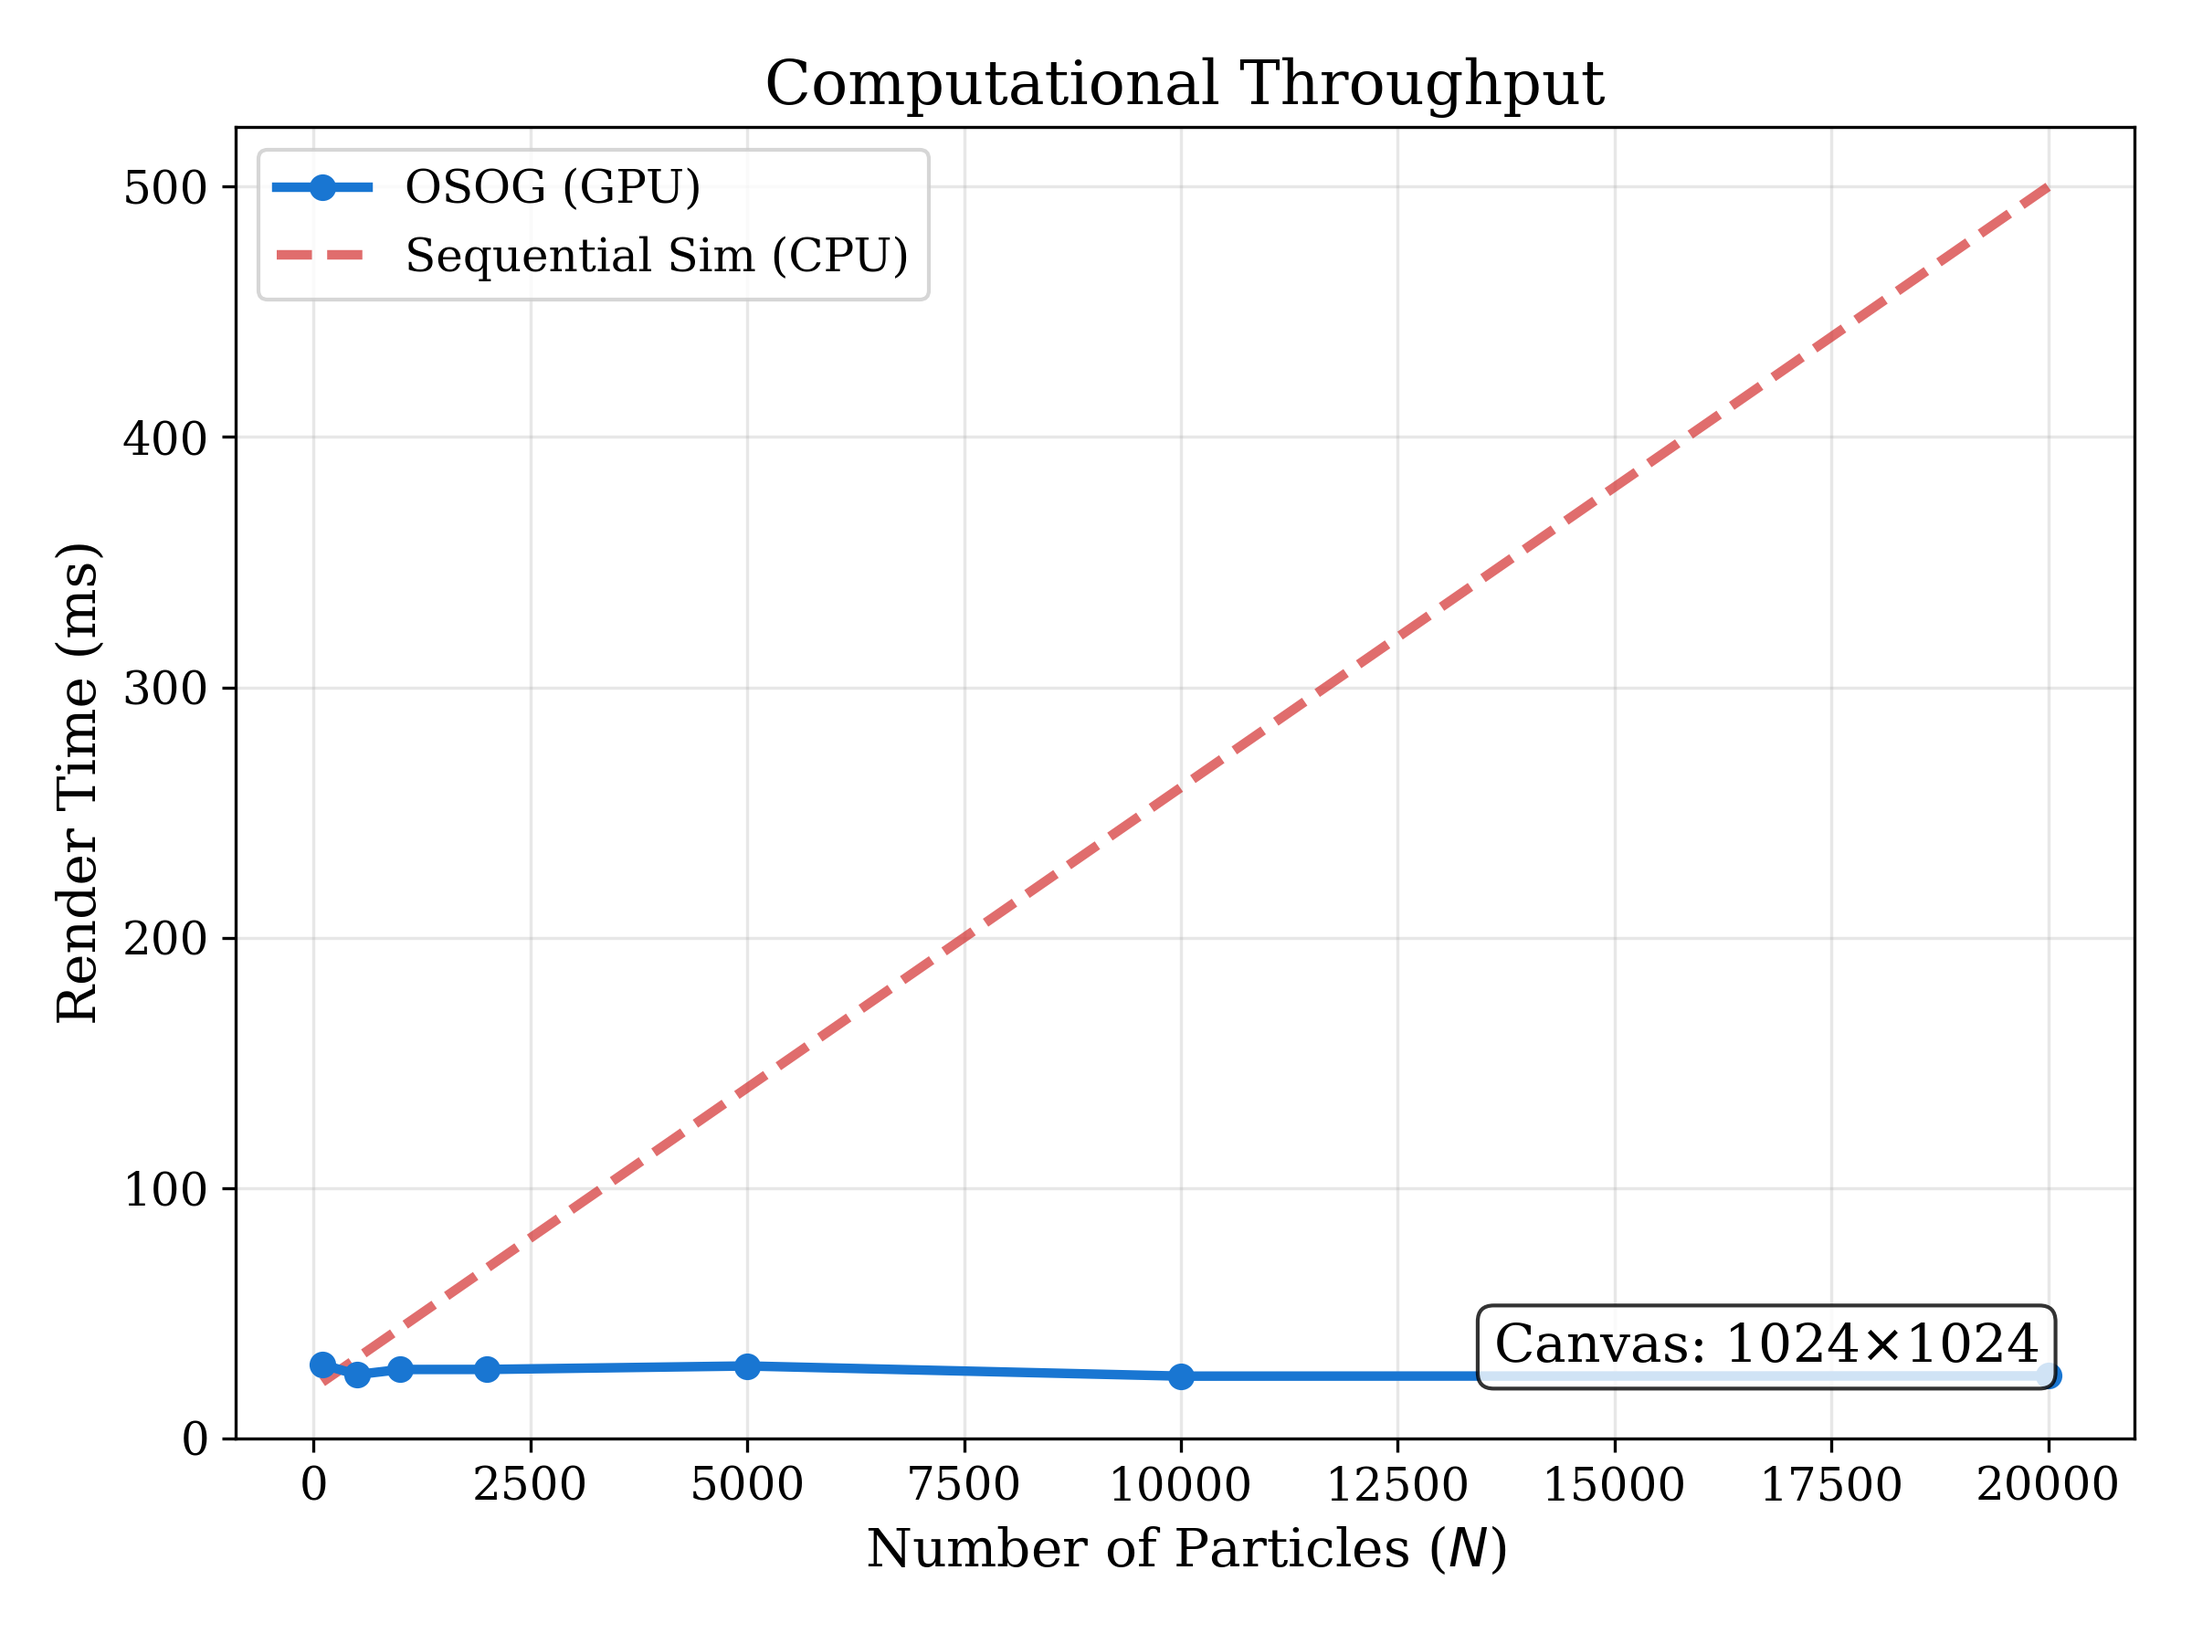
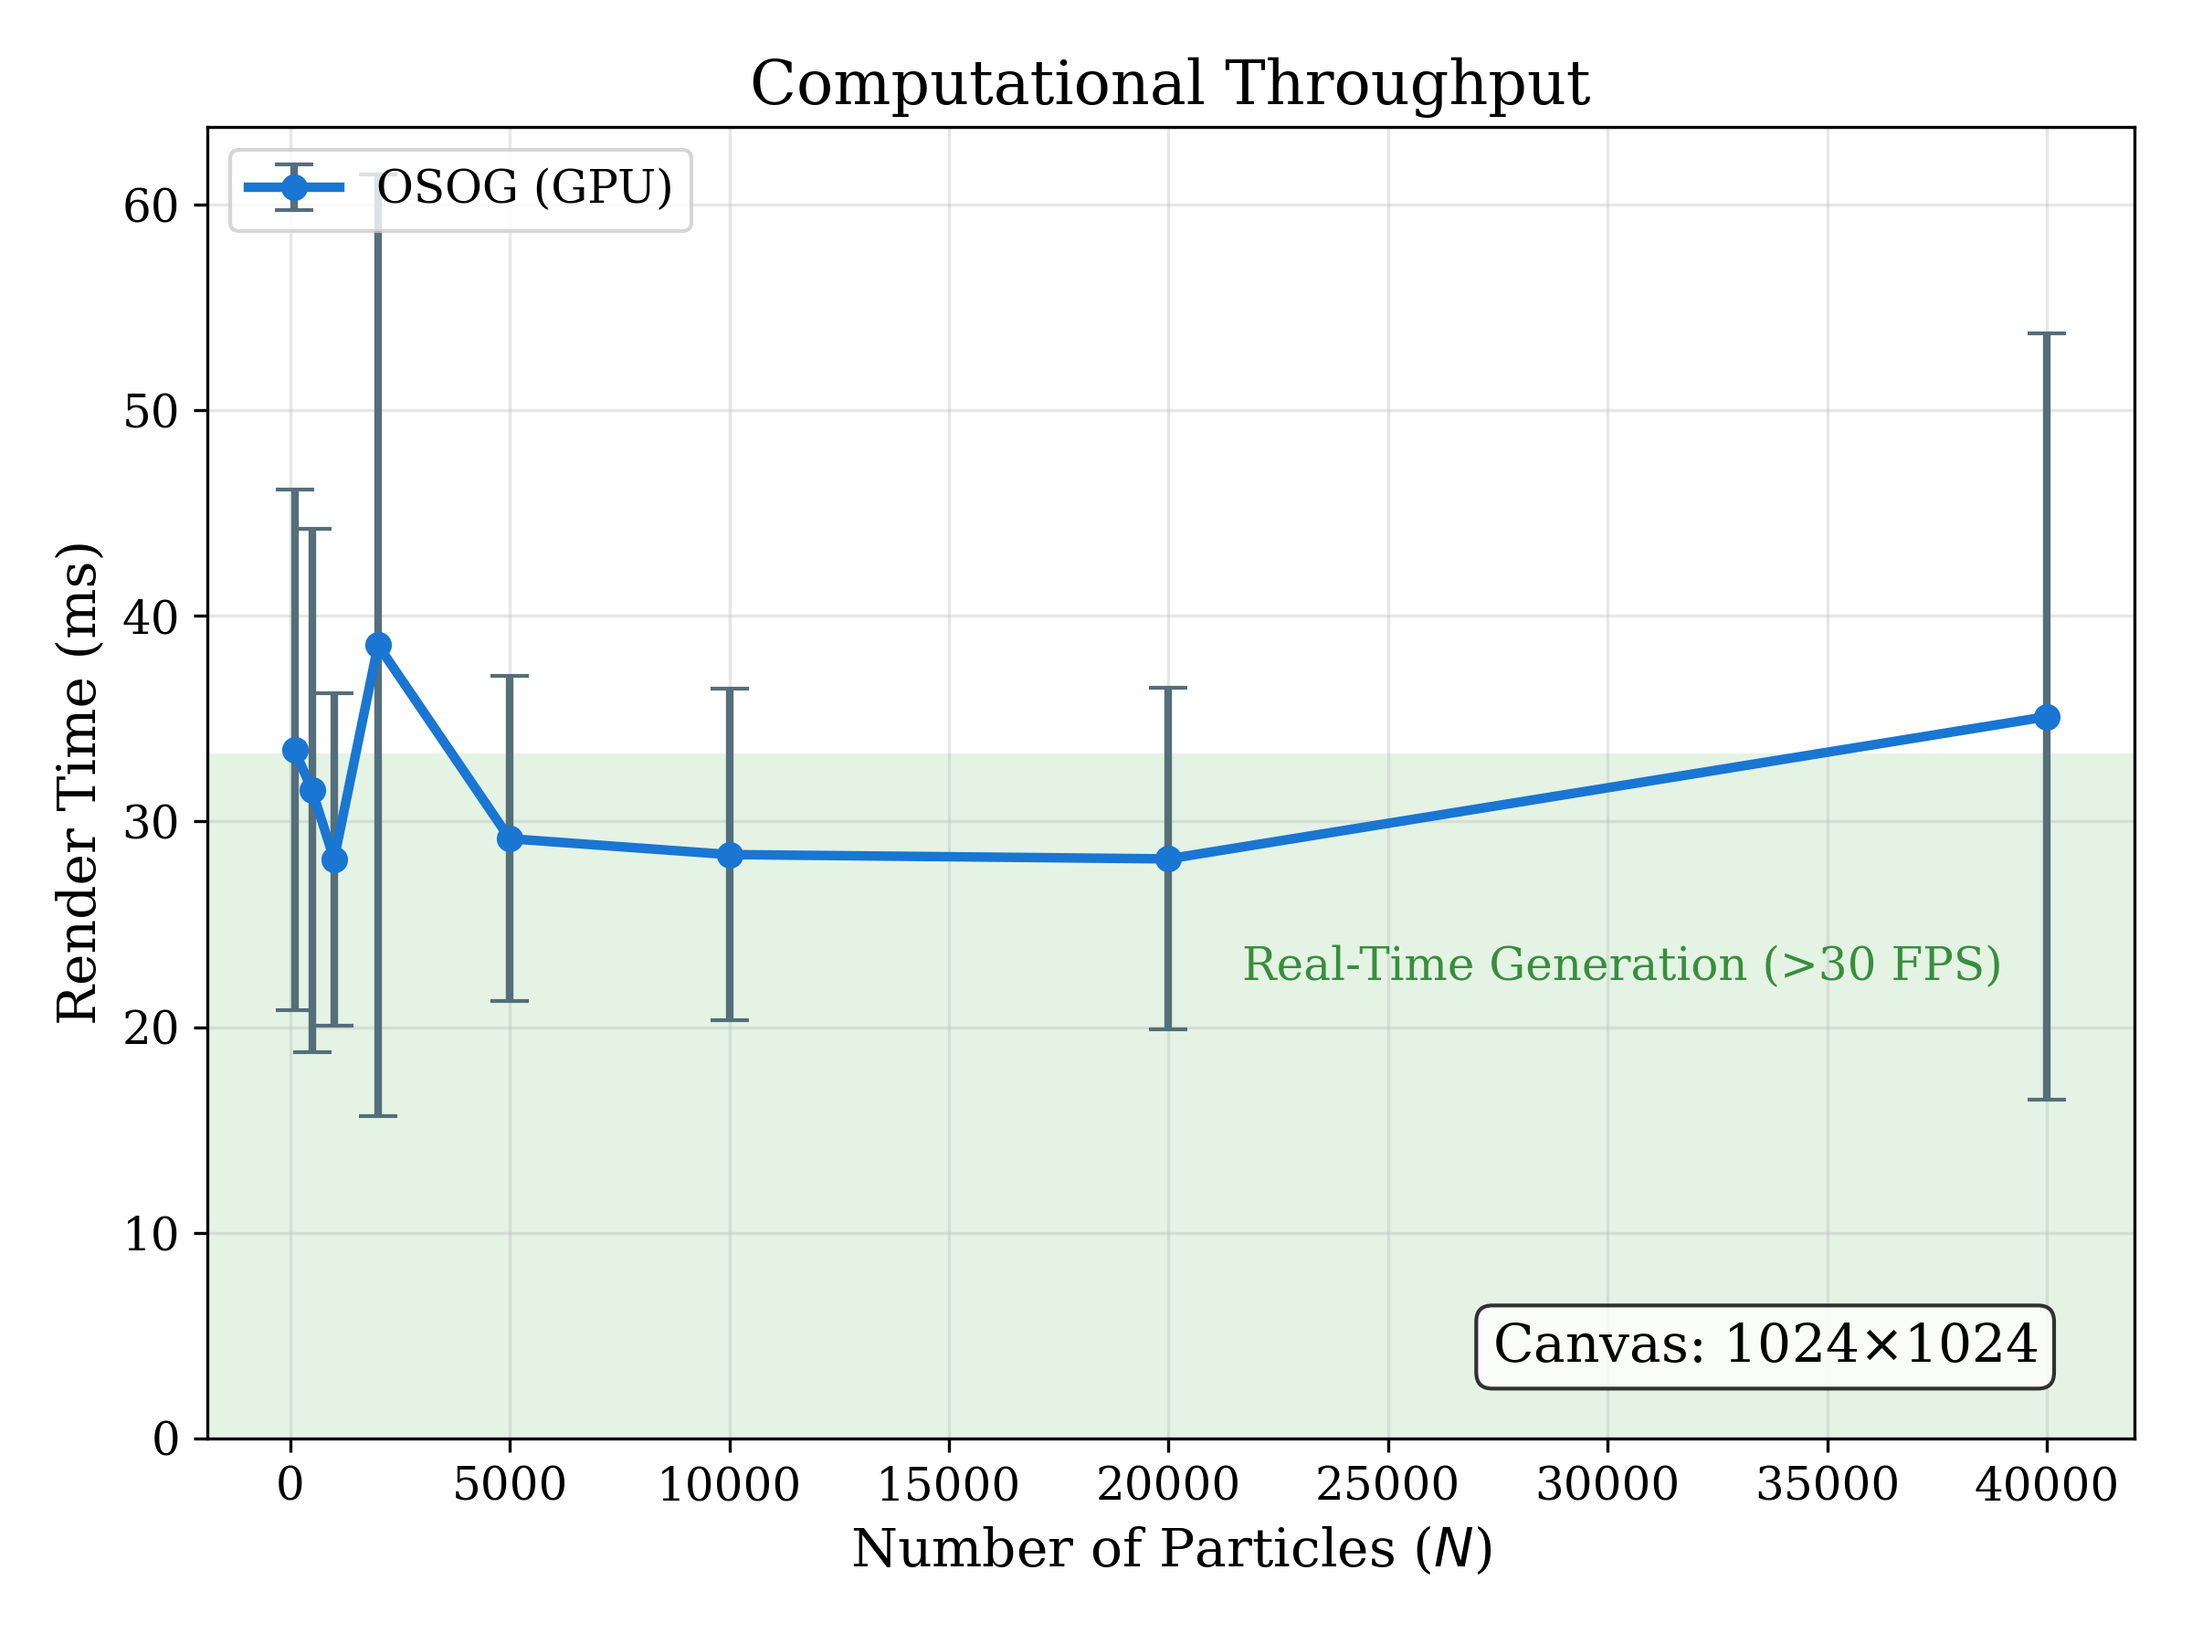
Draft1 Done

diff --git a/osog/scripts/comp_analysis.py b/osog/scripts/comp_analysis.py
@@ -27,14 +27,16 @@ def benchmark_throughput():
     # We will vary the number of particles
     # For Rods, n_rods_rng_lo_hi controls the count
     
-    particle_counts = [100, 500, 1000, 2000, 5000, 10000, 20000,40000]
+    particle_counts = [100, 500, 1000, 2000, 5000, 10000, 20000, 40000]
     render_times = []
+    render_stds = []
     
     # Warmup
     print("Warming up GPU...")
-    cfg.physics.rods.n_rods_rng_lo_hi = (100, 100, 100)
-    pipeline = Pipeline(cfg)
-    pipeline.generate(t=0.5, no_detail=True)
+    for i in range(100):
+        cfg.physics.rods.n_rods_rng_lo_hi = (100, 100, 100)
+        pipeline = Pipeline(cfg)
+        pipeline.generate(t=0.5, no_detail=True)
     
     for N in particle_counts:
         print(f"Benchmarking N={N}...")
@@ -46,7 +48,7 @@ def benchmark_throughput():
         pipeline = Pipeline(cfg)
         
         # Average over K runs
-        K = 10
+        K = 100
         times = []
         for _ in range(K):
             if torch.cuda.is_available():
@@ -63,6 +65,7 @@ def benchmark_throughput():
         avg_time = np.mean(times)
         std_time = np.std(times)
         render_times.append(avg_time)
+        render_stds.append(std_time)
         print(f"  -> {avg_time:.2f} ms +/- {std_time:.2f}")
         
     # --- Plotting ---
@@ -85,8 +88,10 @@ def benchmark_throughput():
     
     fig, ax = plt.subplots()
     
-    # 1. OSOG Data
-    ax.plot(particle_counts, render_times, marker='o', color='#1976D2', label='OSOG (GPU)', zorder=3)
+    # 1. OSOG Data with Error Bars
+    ax.errorbar(particle_counts, render_times, yerr=render_stds, 
+                fmt='-o', color='#1976D2', ecolor='#546E7A', 
+                capsize=5, elinewidth=2, label='OSOG (GPU)', zorder=3)
     
     ax.set_title("Computational Throughput")
     ax.set_xlabel("Number of Particles ($N$)")
@@ -95,6 +100,11 @@ def benchmark_throughput():
     
     # Legend
     ax.legend(loc='upper left', frameon=True, fancybox=True)
+    
+    # Add a shaded region for "Real-Time" performance (< 33.3 ms or > 30 FPS)
+    ax.axhspan(0, 33.3, facecolor='#4CAF50', alpha=0.15, zorder=1)
+    ax.text(39000, 24, "Real-Time Generation (>30 FPS)", color='#388E3C', 
+            fontsize=12, horizontalalignment='right', verticalalignment='top')
     
     # Annotate "1024x1024 Canvas"
     ax.text(0.95, 0.05, "Canvas: 1024$\\times$1024", transform=ax.transAxes, 
